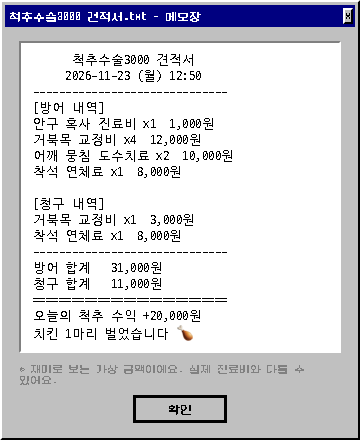
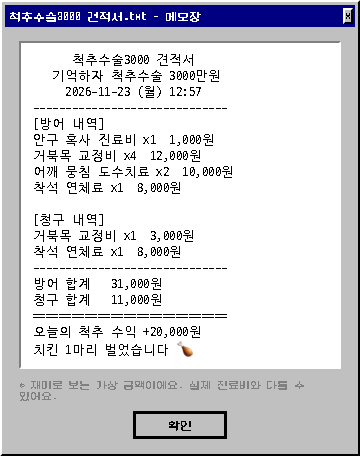
Add '기억하자 척추수술 3000만원' title, stretch image prompts, crop tool
- Tagline title above the posture images, in tray tooltip and receipt header
- Fix image panel caption overlap
- Rewrite image prompts to match the reference characters (two-panel X/O layout)
- tools/crop_pair.py to cut generated pairs into assets; per-character image lookup

diff --git a/src/posture_alert/ui/popup.py b/src/posture_alert/ui/popup.py
@@ -14,7 +14,7 @@ from PySide6.QtWidgets import (QFrame, QHBoxLayout, QLabel, QProgressBar,
                                QPushButton, QVBoxLayout, QWidget)
 
 from ..engine.billing import DISCLAIMER, Receipt, price_of, won
-from ..engine.content import APP_NAME, Exercise, Message
+from ..engine.content import APP_NAME, APP_TAGLINE, Exercise, Message
 from .retro import (BAD_POSE, CHECK_ICON, CHECK_PAL, CHECKBOX_OFF, CHECKBOX_ON,
                     CHECKBOX_PAL, DARK, ERROR_ICON, ERROR_PAL, GOOD_POSE, NAVY,
                     POSE_PAL, WARNING, WARNING_PAL, retro_font, sprite)
@@ -137,6 +137,20 @@ def _header(msg: Message, icon=ERROR_ICON, pal=ERROR_PAL, code: str = "") -> Hea
     return Header(row, icon_lb, title, body)
 
 
+def _tagline() -> QWidget:
+    """그림 위의 큰 타이틀: 기억하자 / 척추수술 3000만원 (레퍼런스 그림처럼 두 줄 가운데 정렬)."""
+    first, _, second = APP_TAGLINE.partition(" ")
+    box = QWidget()
+    v = QVBoxLayout(box)
+    v.setContentsMargins(0, 4, 0, 2)
+    v.setSpacing(2)
+    for text, px in ((first, 18), (second, 24)):
+        lb = _label(text, px, bold=True)
+        lb.setAlignment(Qt.AlignmentFlag.AlignCenter)
+        v.addWidget(lb)
+    return box
+
+
 def _checkbox(on: bool) -> QPixmap:
     return sprite(CHECKBOX_ON if on else CHECKBOX_OFF, CHECKBOX_PAL, 2)
 
@@ -154,12 +168,15 @@ CHARACTERS = ("f", "m")  # assets/img/default/{f|m}_{bad|good}.png
 
 def pose_image(assets: Path, exercise_id: str, which: str, character: str = "f") -> QPixmap:
     """그림 고르는 순서:
-    1) assets/img/{동작id}_{good|bad}.png   (동작별 전용 그림)
-    2) assets/img/default/{f|m}_{good|bad}.png (기본 캐릭터: 거북목 ✕ / 바른 자세 ○)
-    3) 임시 픽셀 막대 인형
+    1) assets/img/{동작id}_{f|m}_{good|bad}.png (동작 + 캐릭터별 그림)
+    2) assets/img/{동작id}_{good|bad}.png      (동작별 그림, 캐릭터 공통)
+    3) assets/img/default/{f|m}_{good|bad}.png  (기본 캐릭터: 거북목 ✕ / 바른 자세 ○)
+    4) 임시 픽셀 막대 인형
     """
-    for f in (assets / "img" / f"{exercise_id}_{which}.png",
-              assets / "img" / "default" / f"{character}_{which}.png"):
+    img = assets / "img"
+    for f in (img / f"{exercise_id}_{character}_{which}.png",
+              img / f"{exercise_id}_{which}.png",
+              img / "default" / f"{character}_{which}.png"):
         if f.exists():
             return QPixmap(str(f)).scaled(IMG_W, IMG_H, Qt.AspectRatioMode.KeepAspectRatio,
                                           Qt.TransformationMode.SmoothTransformation)
@@ -174,14 +191,18 @@ def image_panel(pm: QPixmap, caption: str) -> QWidget:
     frame = QFrame()
     frame.setObjectName("sunken")
     frame.setFixedSize(IMG_W + 8, IMG_H + 8)
-    img = QLabel(frame)
+    fl = QVBoxLayout(frame)
+    fl.setContentsMargins(4, 4, 4, 4)
+    img = QLabel()
     img.setPixmap(pm)
     img.setAlignment(Qt.AlignmentFlag.AlignCenter)
-    img.setGeometry(4, 4, IMG_W, IMG_H)
+    fl.addWidget(img)
     cap = _label(caption, 12, bold=True)
     cap.setAlignment(Qt.AlignmentFlag.AlignCenter)
+    cap.setMinimumHeight(18)
     v.addWidget(frame)
     v.addWidget(cap)
+    box.setFixedHeight(IMG_H + 8 + 4 + 20)  # 그림 + 간격 + 캡션 (레이아웃이 줄이지 못하게)
     return box
 
 
@@ -203,6 +224,8 @@ class GuideCard(_RetroWindow):
         self.price = price
         self.header = _header(msg, code=code)
         self.body.addLayout(self.header.layout)
+
+        self.body.addWidget(_tagline())
 
         imgs = QHBoxLayout()
         imgs.addStretch()
@@ -406,7 +429,7 @@ class ReceiptWindow(_RetroWindow):
     def _render(cls, r: Receipt, now: datetime) -> str:
         w = cls.WIDTH
         days = "월화수목금토일"
-        out = [f"{APP_NAME} 견적서".center(w - 6), f"{now:%Y-%m-%d} ({days[now.weekday()]}) {now:%H:%M}".center(w),
+        out = [f"{APP_NAME} 견적서".center(w - 6), APP_TAGLINE.center(w - 8), f"{now:%Y-%m-%d} ({days[now.weekday()]}) {now:%H:%M}".center(w),
                "-" * w, "[방어 내역]"]
         out += [f"{l.name} x{l.count}  {won(l.amount)}" for l in r.saved] or ["  (없음)"]
         out += ["", "[청구 내역]"]

diff --git a/tools/crop_pair.py b/tools/crop_pair.py
@@ -1,0 +1,53 @@
+"""생성한 (X)/(O) 두 칸 그림을 잘라 앱 이미지로 저장한다.
+
+    uv run --with pillow python tools/crop_pair.py 그림.png neck_side f
+    uv run --with pillow python tools/crop_pair.py 그림.png --rows 3 --names neck_side,scapula_squeeze,stand_water m
+
+결과: src/posture_alert/assets/img/{동작id}[_{f|m}]_{bad|good}.png
+"""
+import argparse
+from pathlib import Path
+
+from PIL import Image
+
+OUT = Path(__file__).resolve().parent.parent / "src" / "posture_alert" / "assets" / "img"
+
+
+def main() -> None:
+    p = argparse.ArgumentParser()
+    p.add_argument("image")
+    p.add_argument("exercise_id", nargs="?", help="동작 id (한 쌍일 때)")
+    p.add_argument("character", nargs="?", choices=["f", "m"], help="캐릭터 (생략하면 공통)")
+    p.add_argument("--rows", type=int, default=1, help="여러 쌍을 세로로 쌓은 그림의 줄 수")
+    p.add_argument("--names", help="줄별 동작 id, 쉼표로 구분 (--rows 와 함께)")
+    p.add_argument("--top", type=float, default=0.14, help="칸 위쪽에서 잘라낼 비율 ((X)/(O) 글자)")
+    p.add_argument("--bottom", type=float, default=0.02, help="칸 아래쪽에서 잘라낼 비율")
+    p.add_argument("--side", type=float, default=0.03, help="칸 양옆에서 잘라낼 비율")
+    a = p.parse_args()
+
+    # 위치 인자가 하나뿐이면 (--rows 모드에서 캐릭터만 준 경우) 캐릭터로 취급
+    if a.names and a.exercise_id in ("f", "m") and a.character is None:
+        a.character, a.exercise_id = a.exercise_id, None
+    names = a.names.split(",") if a.names else [a.exercise_id]
+    if None in names or len(names) != a.rows:
+        p.error("동작 id 개수가 줄 수와 맞지 않아요")
+
+    im = Image.open(a.image).convert("RGB")
+    W, H = im.size
+    row_h = H / a.rows
+    suffix = f"_{a.character}" if a.character else ""
+    OUT.mkdir(parents=True, exist_ok=True)
+    for r, name in enumerate(names):
+        y0, y1 = r * row_h, (r + 1) * row_h
+        for col, which in ((0, "bad"), (1, "good")):
+            x0, x1 = col * W / 2, (col + 1) * W / 2
+            cw, ch = x1 - x0, y1 - y0
+            box = (int(x0 + cw * a.side), int(y0 + ch * a.top),
+                   int(x1 - cw * a.side), int(y1 - ch * a.bottom))
+            out = OUT / f"{name}{suffix}_{which}.png"
+            im.crop(box).save(out, optimize=True)
+            print("저장:", out.relative_to(OUT.parent.parent.parent.parent))
+
+
+if __name__ == "__main__":
+    main()

diff --git a/src/posture_alert/main.py b/src/posture_alert/main.py
@@ -16,7 +16,7 @@ from PySide6.QtGui import QColor, QIcon
 from PySide6.QtWidgets import QApplication, QMenu, QSystemTrayIcon
 
 from .engine.billing import build_receipt
-from .engine.content import (APP_NAME, APP_SUBTITLE, ASSETS, load_exercises,
+from .engine.content import (APP_NAME, APP_TAGLINE, ASSETS, load_exercises,
                              message_for, pick)
 from .engine.scheduler import Kind, Scheduler
 from .platform import get_monitor
@@ -60,7 +60,7 @@ class App:
         self._char_i = 0
 
         self.tray = QSystemTrayIcon(QIcon(sprite(ERROR_ICON, ERROR_PAL, 2)))
-        self.tray.setToolTip(f"{APP_NAME} - {APP_SUBTITLE}")
+        self.tray.setToolTip(f"{APP_NAME} - {APP_TAGLINE}")
         menu = QMenu()
         menu.addAction("오늘 견적서 보기", self.show_receipt)
         menu.addSeparator()

diff --git a/src/posture_alert/engine/content.py b/src/posture_alert/engine/content.py
@@ -33,6 +33,7 @@ class Message:
 
 
 APP_NAME = "척추수술3000"
+APP_TAGLINE = "기억하자 척추수술 3000만원"
 APP_SUBTITLE = "오늘 당신의 구부정한 목이 청구한 병원비"
 
 # 모든 문구는 존댓말. 금액은 billing.PRICE 와 맞춘다

diff --git a/README.md b/README.md
@@ -1,5 +1,7 @@
 # 척추수술3000 (posture_alert)
 
+> **기억하자 척추수술 3000만원**
+>
 > 오늘 당신의 구부정한 목이 청구한 병원비
 
 Windows용 자세 교정 알림 앱. 정해진 간격마다 **Win95 에러창**으로 그림 가이드를 띄워 "이 자세가 되었나요?"라고 묻습니다. 자세를 맞추면 가상 병원비를 **방어**하고, 무시하면 **청구**되며 에러창이 겹겹이 쌓입니다.
